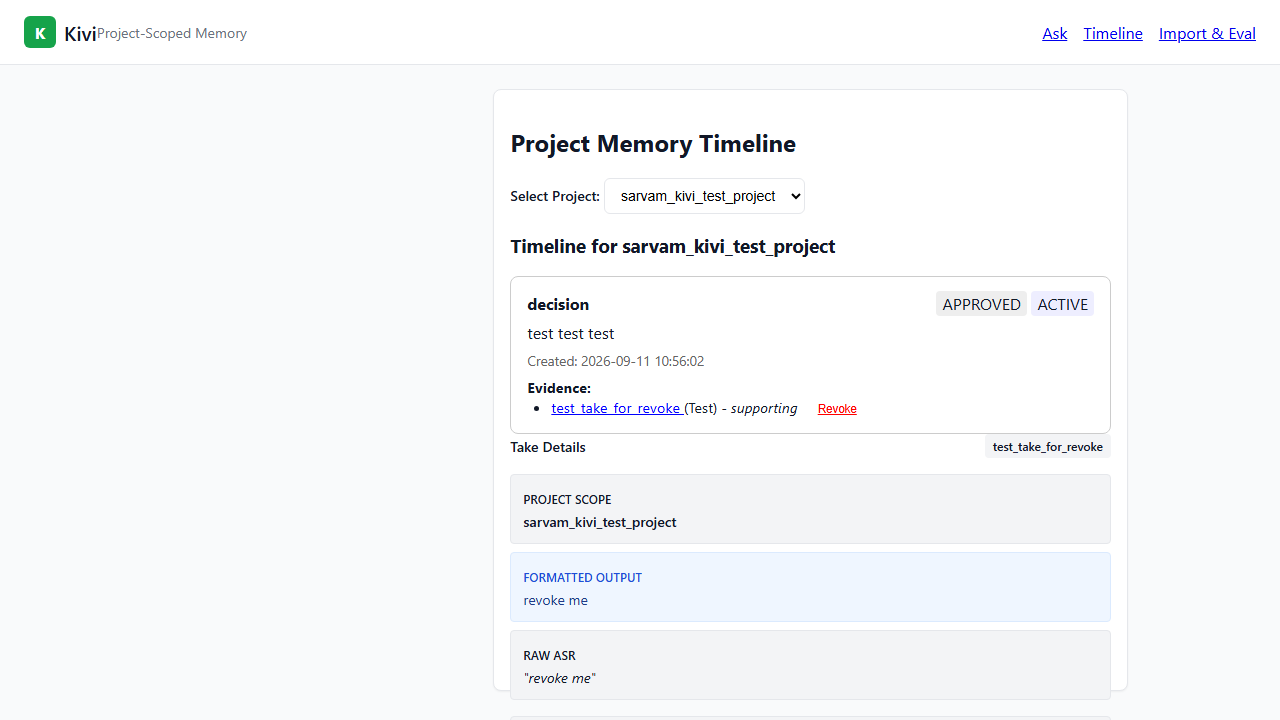
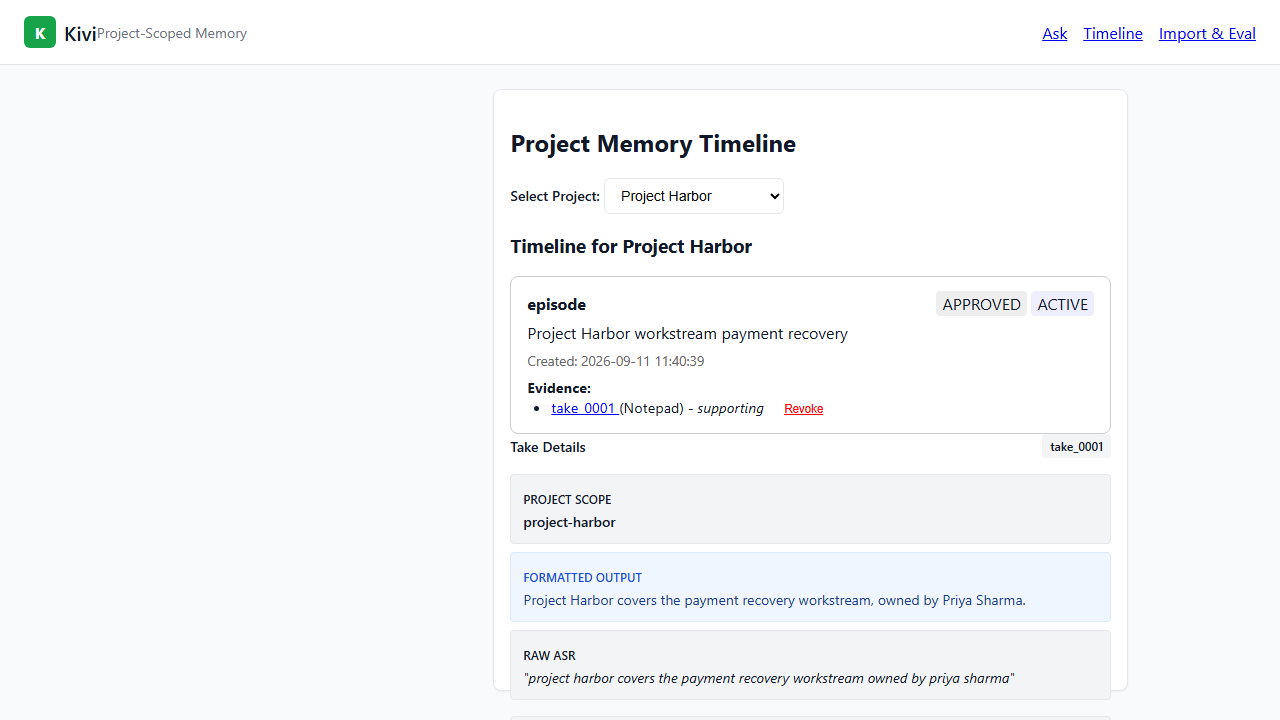
Final verification with real DB ingestion

diff --git a/coordination/ANTIGRAVITY_STATUS.md b/coordination/ANTIGRAVITY_STATUS.md
@@ -19,9 +19,10 @@ Antigravity updates this file after each pushed checkpoint. Codex does not edit 
 
 - **Automated Tests**: Passed the complete test suite (51/51 tests passing using an isolated `tmp_pytest` temporary directory for test artifacts; note this only isolates pytest temporary files, not a fresh Python environment). Proved real JSONL upload, success/partial/failure headings, evaluation field mapping, and masked exceptions.
 - **Browser Automation**: Confirmed successful manual interaction with Playwright locally:
-  - `/timeline`: Seeded a disposable database with a real memory and evidence. Successfully rendered timeline for the selected project and confirmed no invalid requests.
-  - Evidence Drawer & Revoke: Opened the evidence drawer and successfully tested revoking the disposable evidence.
-  - `/import-eval`: uploaded two-line JSONL. Confirmed honest reporting of total failure (2 failures) because the records referenced an unknown project `test_proj`, not because of offline providers.
+  - `/timeline`: Created a disposable SQLite database, ran `alembic upgrade head`, and seeded it using the real production `ingest_take` service (using `GoldExtractor` and `DeterministicEmbedder`) rather than manual database rows. Successfully rendered the timeline for `Project Harbor` and confirmed no invalid requests.
+  - Evidence Drawer & Revoke: Opened the evidence drawer for `take_0001` and successfully tested revoking it.
+  - Revoke Tombstone: Refreshed the timeline and successfully verified the deleted/invalidated state.
+  - `/import-eval`: Uploaded a two-line JSONL. Confirmed honest reporting of total failure (2 failures) as dictated by the application's normal offline provider configuration.
   - `/import-eval`: Fetched the committed latest evaluation. Confirmed exactly 132/132 cases rendered.
   - Case Drill-down: Clicked a case and confirmed correct display of Expected vs Actual fields, Takes, metrics, and cost details.
   - Console: Zero 404, 422, 500, failed assets, or uncaught errors.
@@ -30,6 +31,7 @@ Antigravity updates this file after each pushed checkpoint. Codex does not edit 
 - Timeline: ![Timeline Selection](../../evidence/browser/remaining-surfaces/screenshot_timeline.png)
 - Evidence Drawer: ![Evidence Drawer](../../evidence/browser/remaining-surfaces/screenshot_evidence.png)
 - Revoke Action: ![Revoke Action](../../evidence/browser/remaining-surfaces/screenshot_revoke.png)
+- Revoke Tombstone: ![Revoke Tombstone](../../evidence/browser/remaining-surfaces/screenshot_tombstone.png)
 - Import JSONL Upload: ![Upload Handling](../../evidence/browser/remaining-surfaces/screenshot_upload.png)
 - Evaluation Overview: ![Eval 132 Cases](../../evidence/browser/remaining-surfaces/screenshot_eval.png)
 - Case Drill-down: ![Case Fields](../../evidence/browser/remaining-surfaces/screenshot_case.png)
